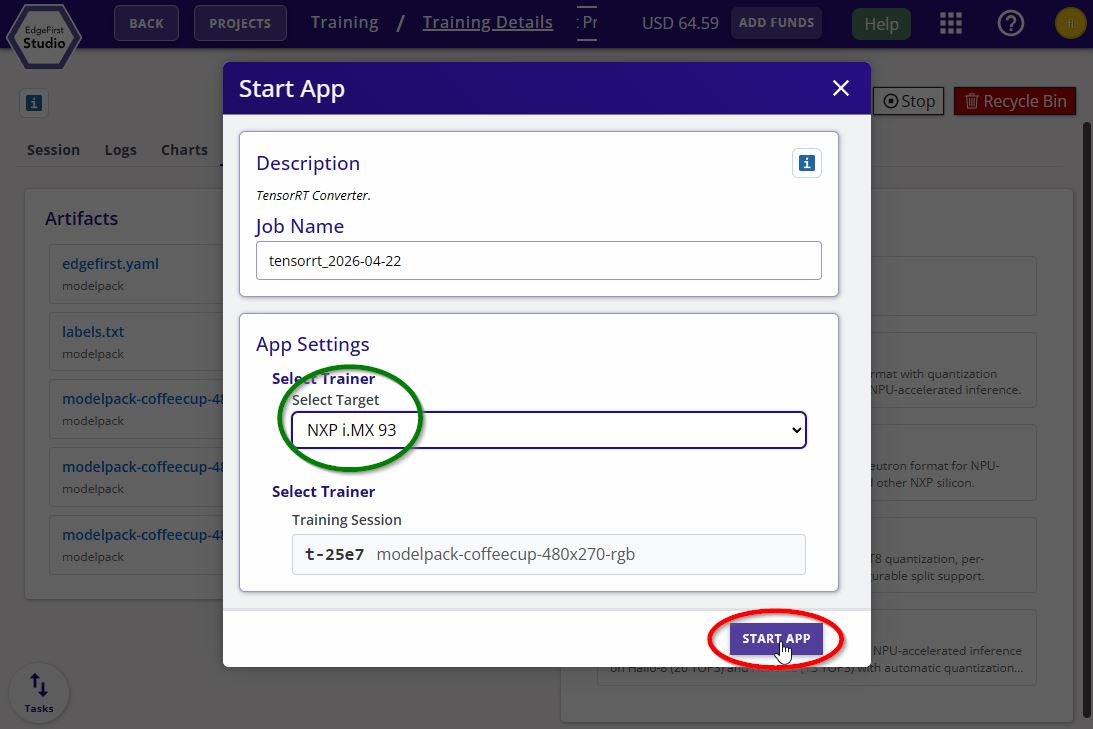
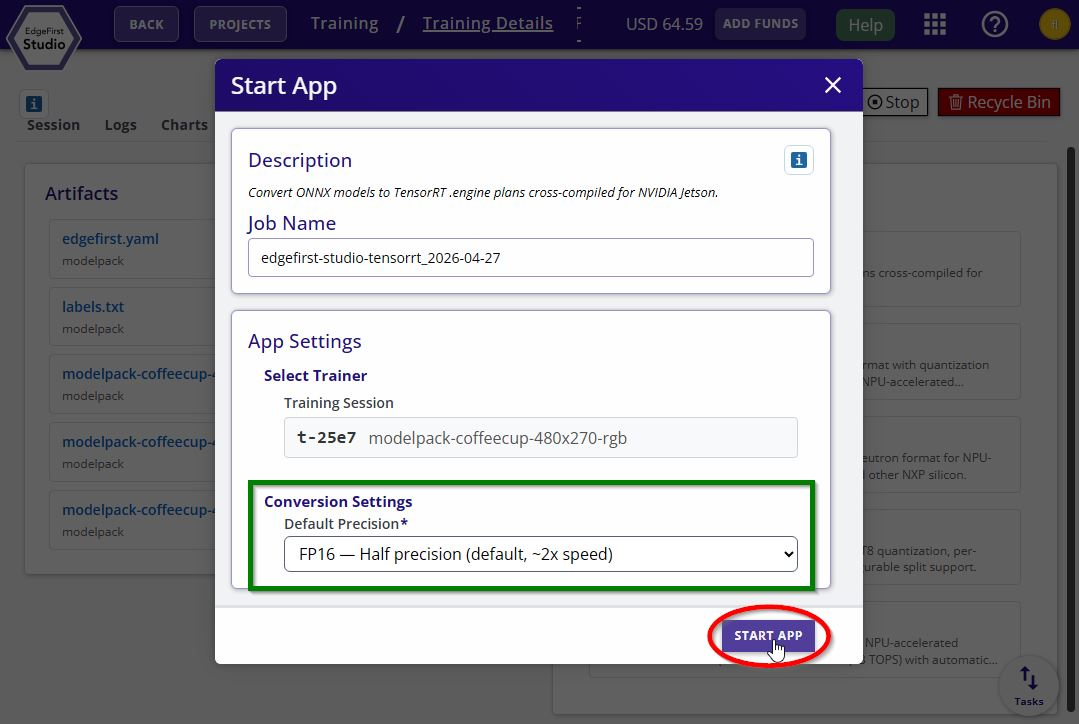
EDGEAI-547: Updated ReadMe to remove images_with_layers.pptx convention as this is no longer used. Updated inspect_engine.py under the ONNX to TensorRT model conversion to support models with embedded edgefirst.json and labels.txt files.

diff --git a/docs/platforms/quickstart/jetson_orin/assets/inspect_engine.py b/docs/platforms/quickstart/jetson_orin/assets/inspect_engine.py
@@ -1,0 +1,69 @@
+import tensorrt as trt
+import io
+import zipfile
+
+logger = trt.Logger(trt.Logger.WARNING)
+
+def find_zip_start(data: bytes):
+    """Return the first local ZIP header offset if a ZIP is embedded."""
+    if len(data) < 22:
+        return None
+    try:
+        with zipfile.ZipFile(io.BytesIO(data)) as zf:
+            infos = zf.infolist()
+            if not infos:
+                return None
+            return min(info.header_offset for info in infos)
+    except zipfile.BadZipFile:
+        return None
+
+def extract_engine_bytes(data: bytes) -> bytes:
+    """Strip ZIP trailer or extract engine payload when input is a ZIP."""
+    zip_start = find_zip_start(data)
+    if zip_start is None:
+        return data
+    if zip_start > 0:
+        return data[:zip_start]
+
+    with zipfile.ZipFile(io.BytesIO(data)) as zf:
+        names = [
+            info.filename for info in zf.infolist()
+            if not info.is_dir()
+        ]
+        engine_names = [
+            name for name in names
+            if name.lower().endswith((".engine", ".trt", ".plan"))
+        ]
+        candidate = engine_names[0] if engine_names else max(
+            names,
+            key=lambda name: zf.getinfo(name).file_size,
+        )
+        return zf.read(candidate)
+
+with open("/path/to/model.engine", "rb") as f:
+    runtime = trt.Runtime(logger)
+    file = f.read()
+    engine_blob = extract_engine_bytes(file)
+    engine = runtime.deserialize_cuda_engine(engine_blob)
+
+num_tensors = engine.num_io_tensors
+
+for i in range(num_tensors):
+    name = engine.get_tensor_name(i)
+    dtype = engine.get_tensor_dtype(name)
+    shape = engine.get_tensor_shape(name)
+    mode = engine.get_tensor_mode(name)  # INPUT or OUTPUT
+
+    print(f"{i}: {name}")
+    print(f"   mode: {mode}")
+    print(f"   dtype: {dtype}")
+    print(f"   shape: {shape}")
+
+fp16 = False
+
+for i in range(engine.num_io_tensors):
+    name = engine.get_tensor_name(i)
+    if engine.get_tensor_dtype(name) == trt.DataType.HALF:
+        fp16 = True
+
+print("Engine uses FP16 I/O:", fp16)

diff --git a/README.md b/README.md
@@ -48,11 +48,10 @@ Follow these conventions when working on the documentation.
 1. Filenames should be lower case. Avoid a name like "Projects" for files and directories for example. 
 2. Keep images in an `assets` folder for better organization. 
 3. Use well descriptive names for the images. Avoid a name like "image-1" for example. 
-4. Either keep assets as a sub-folder to where the documentation using these assets lives, or a sub-folder of the root assets with the same hierarchy. (Former is currently being followed).
+4. Either keep assets as a sub-folder to where the documentation using these assets lives, or a sub-folder of the root assets with the same hierarchy (former is currently being followed).
 5. Do NOT use screenshots from private customer data in the documentation. We should be using our own custom datasets. Exception would be documentation for a specific dataset such as COCO.
-6. Use powerpoint slidedeck `images_with_layers.pptx` to add images with drawing. Adopt a size of 1005x660 for home screen images of EdgeFirst Studio. 
-7. Avoid any unused images in the assets folder. Any unused images should be removed. 
-8. Typically images are rendered by using the macro `figure()` with a caption and center alignment as shown. This will also expose the image path to show via mouse hover as explained in point 9.
+6. Avoid any unused images in the assets folder. Any unused images should be removed. 
+7. Typically images are rendered by using the macro `figure()` with a caption and center alignment as shown. This will also expose the image path to show via mouse hover as explained in point 8.
 
 ```
 {{ figure("/studio/assets/user/signup-page.jpg", "Create a New Account") }}
@@ -64,5 +63,6 @@ Otherwise, standalone images with no captions or center alignment can either use
 {{ img("/studio/assets/user/signup-page.jpg", "Create a New Account") }}
 ```
 
-9. For production set `show_image_paths: false` under mkdocs.yml `extra: `. This will prevent the image path from being shown upon mouse hover in the docs which is used mostly for development process to ease the replacement of images. 
+8. For production set `show_image_paths: false` under mkdocs.yml `extra: `. This will prevent the image path from being shown upon mouse hover in the docs which is used mostly for development process to ease the replacement of images. 
+9. The site [remove.bg](https://www.remove.bg/) was used to remove the background from the platform screenshots.
 10. [Greenshot software](https://getgreenshot.org/) was used to take screenshots and image annotations in this documentation.

diff --git a/docs/discrete/models/convert_to_tensorrt.md b/docs/discrete/models/convert_to_tensorrt.md
@@ -78,16 +78,56 @@ This section converts a PyTorch model to TensorRT using the [Ultralytics Framewo
 
 Once the conversion completes, you can inspect the I/O shapes and datatypes to verify that the resulting conversion is expected.
 
-1. Create a python script named "inspect_engine.py" and modify the path to the model in the script `/path/to/model.engine`
+1. Create a python script named [inspect_engine.py](../../platforms/quickstart/jetson_orin/assets/inspect_engine.py){: download="inspect_engine.py"} and modify the path to the model in the script `/path/to/model.engine`
 
     ```shell
     import tensorrt as trt
+    import io
+    import zipfile
 
     logger = trt.Logger(trt.Logger.WARNING)
 
+    def find_zip_start(data: bytes):
+        """Return the first local ZIP header offset if a ZIP is embedded."""
+        if len(data) < 22:
+            return None
+        try:
+            with zipfile.ZipFile(io.BytesIO(data)) as zf:
+                infos = zf.infolist()
+                if not infos:
+                    return None
+                return min(info.header_offset for info in infos)
+        except zipfile.BadZipFile:
+            return None
+
+    def extract_engine_bytes(data: bytes) -> bytes:
+        """Strip ZIP trailer or extract engine payload when input is a ZIP."""
+        zip_start = find_zip_start(data)
+        if zip_start is None:
+            return data
+        if zip_start > 0:
+            return data[:zip_start]
+
+        with zipfile.ZipFile(io.BytesIO(data)) as zf:
+            names = [
+                info.filename for info in zf.infolist()
+                if not info.is_dir()
+            ]
+            engine_names = [
+                name for name in names
+                if name.lower().endswith((".engine", ".trt", ".plan"))
+            ]
+            candidate = engine_names[0] if engine_names else max(
+                names,
+                key=lambda name: zf.getinfo(name).file_size,
+            )
+            return zf.read(candidate)
+
     with open("/path/to/model.engine", "rb") as f:
         runtime = trt.Runtime(logger)
-        engine = runtime.deserialize_cuda_engine(f.read())
+        file = f.read()
+        engine_blob = extract_engine_bytes(file)
+        engine = runtime.deserialize_cuda_engine(engine_blob)
 
     num_tensors = engine.num_io_tensors
 

diff --git a/docs/discrete/models/onnx_to_tensorrt.md b/docs/discrete/models/onnx_to_tensorrt.md
@@ -13,7 +13,7 @@
 
         {{ figure("/models/assets/conversion/tensorrt-converter-button.jpg", "TensorRT Converter") }}
 
-    3. Select the target device for deploying the model.  Then click on "Start App" to start the conversion process
+    3. Select the target model precision.  Then click on "Start App" to start the conversion process
 
         {{ figure("/models/assets/conversion/tensorrt-converter-options.jpg", "TensorRT Converter Options") }}
 
